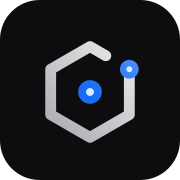
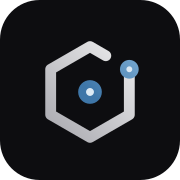
fix(ui): the steel blue, one button shape, a quiet hover — @krizaka/ui 3.31.0 (krizaka-ui#393) (#59)
* fix(ui): retire the chamfer, the lifts and the pointer light (krizaka-ui#393)

One button shape (the Button's default), hovers that change a colour and never a
position, no kz-spotlight/kz-lift/kz-sheen, no shimmer/magnetic, the Krizaka
steel blue where the old electric blue was hard-coded.

* chore(deps): @krizaka/ui, tokens, tailwind 3.31.0 (krizaka-ui#393)

---------

Changed region(s): [[0.4167, 0.4444, 0.5833, 0.5833], [0.6667, 0.3333, 0.7778, 0.4444]]

diff --git a/site/app/components/Home.tsx b/site/app/components/Home.tsx
@@ -71,12 +71,12 @@ ${shown.map((id) => `    implementation("com.krizaka:${starterId(id)}")`).join("
         lead={t.hero.lead}
         actions={
           <>
-            <Button asChild variant="primary" size="lg" shape="cut" shimmer magnetic>
+            <Button asChild variant="primary" size="lg">
               <Link href={path("/start")}>
                 {t.hero.start} <ForwardIcon size={16} aria-hidden />
               </Link>
             </Button>
-            <Button asChild variant="secondary" size="lg" shape="cut">
+            <Button asChild variant="secondary" size="lg">
               <Link href={path("/map")}>{t.hero.map}</Link>
             </Button>
           </>
@@ -101,10 +101,10 @@ ${shown.map((id) => `    implementation("com.krizaka:${starterId(id)}")`).join("
           body: t.closing.body,
           actions: (
             <>
-              <Button asChild variant="primary" size="lg" shape="cut">
+              <Button asChild variant="primary" size="lg">
                 <Link href={path("/start")}>{t.closing.start}</Link>
               </Button>
-              <Button asChild variant="secondary" size="lg" shape="cut">
+              <Button asChild variant="secondary" size="lg">
                 <a href={REPOSITORY_URL}>
                   {t.closing.source} <ExternalIcon size={16} aria-hidden />
                 </a>

diff --git a/site/app/components/blocks-map.module.css b/site/app/components/blocks-map.module.css
@@ -20,7 +20,7 @@
   --dg-domain-ink: var(--kz-accent-text);
   --dg-contract: hsl(215 16% 58%);
   --dg-contract-ink: hsl(215 20% 72%);
-  --dg-platform: hsl(217 92% 60%);
+  --dg-platform: hsl(207 50% 58%);
   --dg-platform-ink: hsl(217 92% 74%);
   --dg-warn: hsl(32 95% 55%);
   --dg-warn-ink: hsl(32 95% 66%);
@@ -44,7 +44,7 @@
   --dg-application-ink: hsl(28 90% 32%);
   --dg-contract: hsl(215 16% 46%);
   --dg-contract-ink: hsl(215 25% 32%);
-  --dg-platform: hsl(217 92% 50%);
+  --dg-platform: hsl(208 54% 36%);
   --dg-platform-ink: hsl(217 90% 38%);
   --dg-warn: hsl(28 92% 46%);
   --dg-warn-ink: hsl(24 90% 34%);

diff --git a/site/app/components/ChangelogBody.tsx b/site/app/components/ChangelogBody.tsx
@@ -77,7 +77,7 @@ export function ChangelogBody({
           </>
         }
         actions={
-          <Button asChild variant="secondary" size="md" shape="cut">
+          <Button asChild variant="secondary" size="md">
             <a href={feedHref}>{c.feed}</a>
           </Button>
         }
